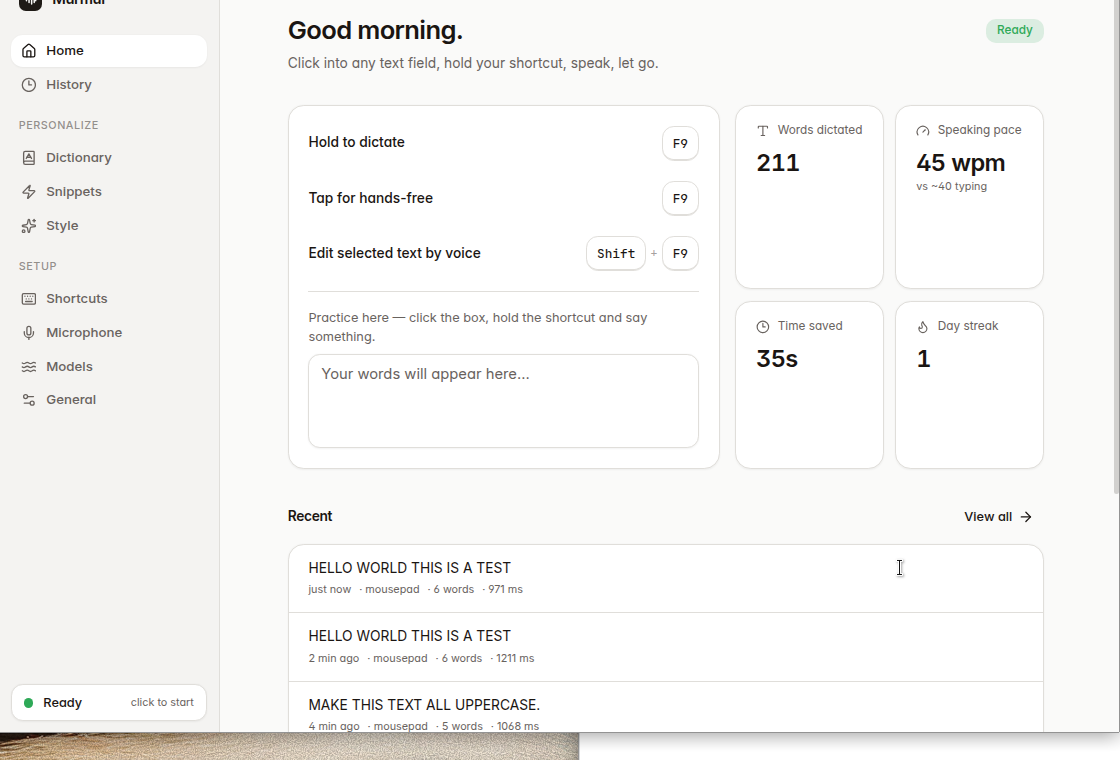
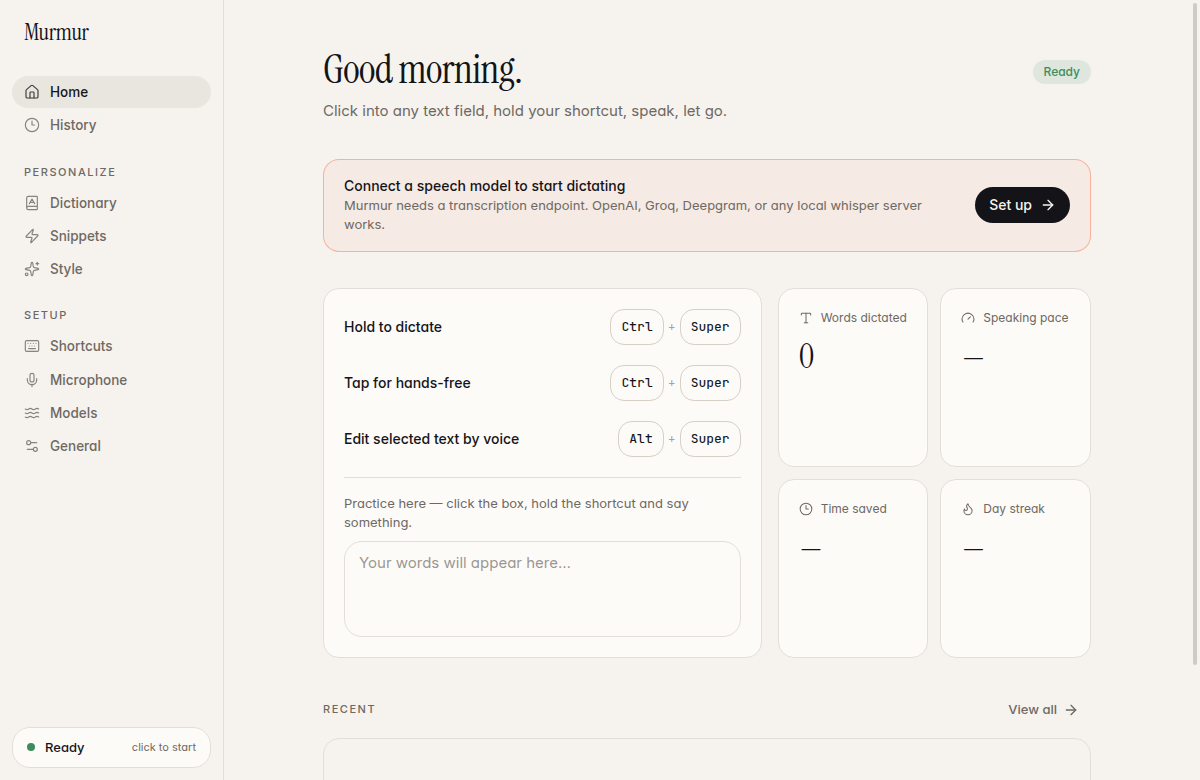
feat(android): hairline edge on the pill stage in dark mode; refresh the README home screenshot

diff --git a/apps/android/app/src/main/java/app/murmur/android/ui/components/Components.kt b/apps/android/app/src/main/java/app/murmur/android/ui/components/Components.kt
@@ -581,14 +581,16 @@ fun GlyphButton(onClick: () -> Unit, modifier: Modifier = Modifier, content: @Co
 
 // ---- surfaces -------------------------------------------------------------------------------
 
-/** The dark block the live dictation button is shown on. */
+/** The dark block the live dictation button is shown on. At night a hairline keeps its edge. */
 @Composable
 fun Stage(modifier: Modifier = Modifier, content: @Composable BoxScope.() -> Unit) {
+    val c = Murmur.colors
     Box(
         modifier
             .fillMaxWidth()
             .clip(RoundedCornerShape(Radii.block))
-            .background(Murmur.colors.stage),
+            .background(c.stage)
+            .border(1.dp, if (c.isDark) c.hairline else Color.Transparent, RoundedCornerShape(Radii.block)),
         content = content
     )
 }
